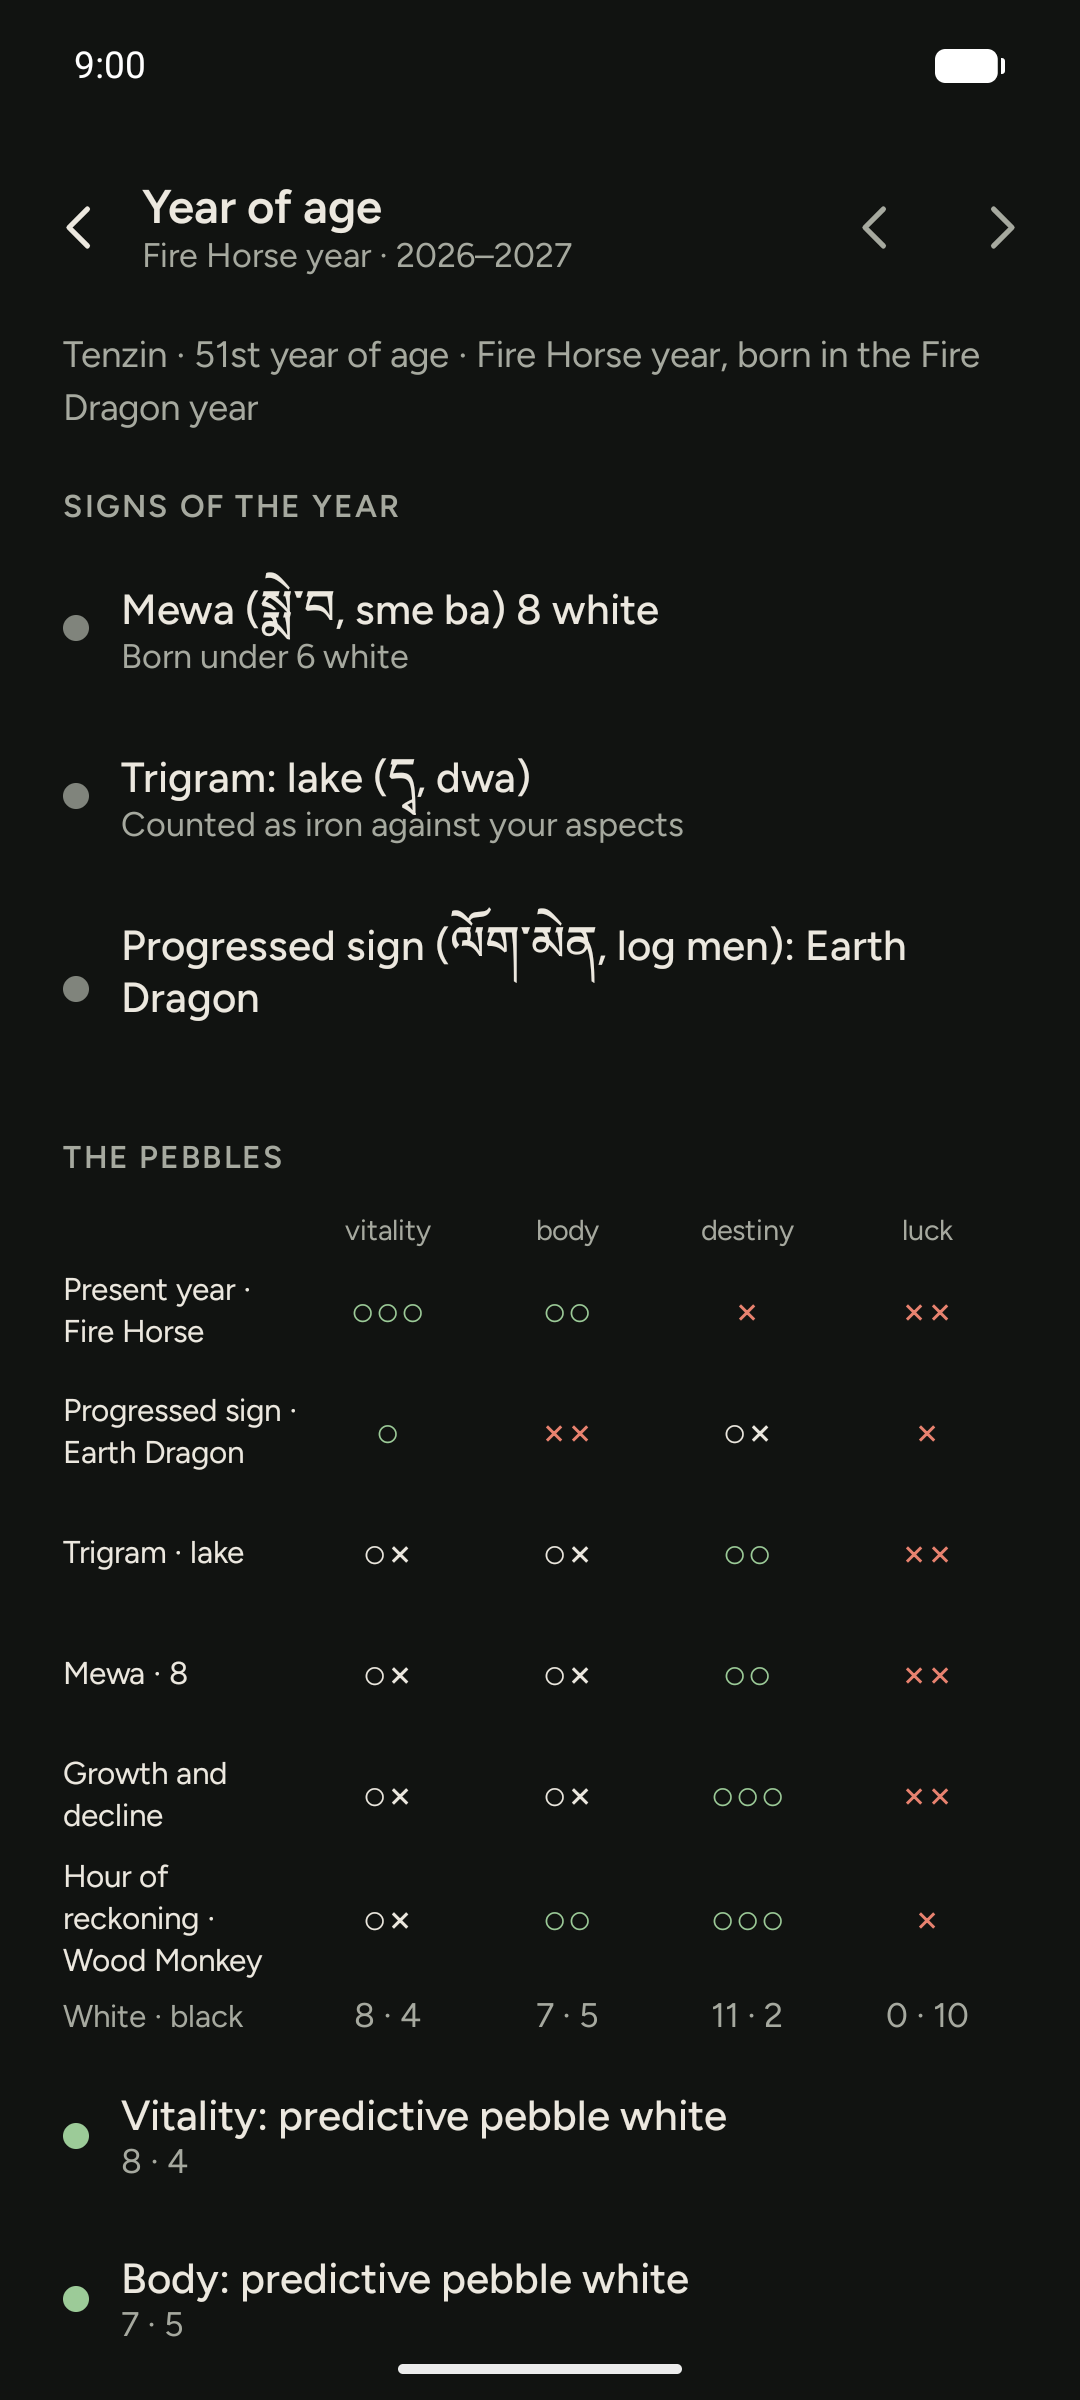
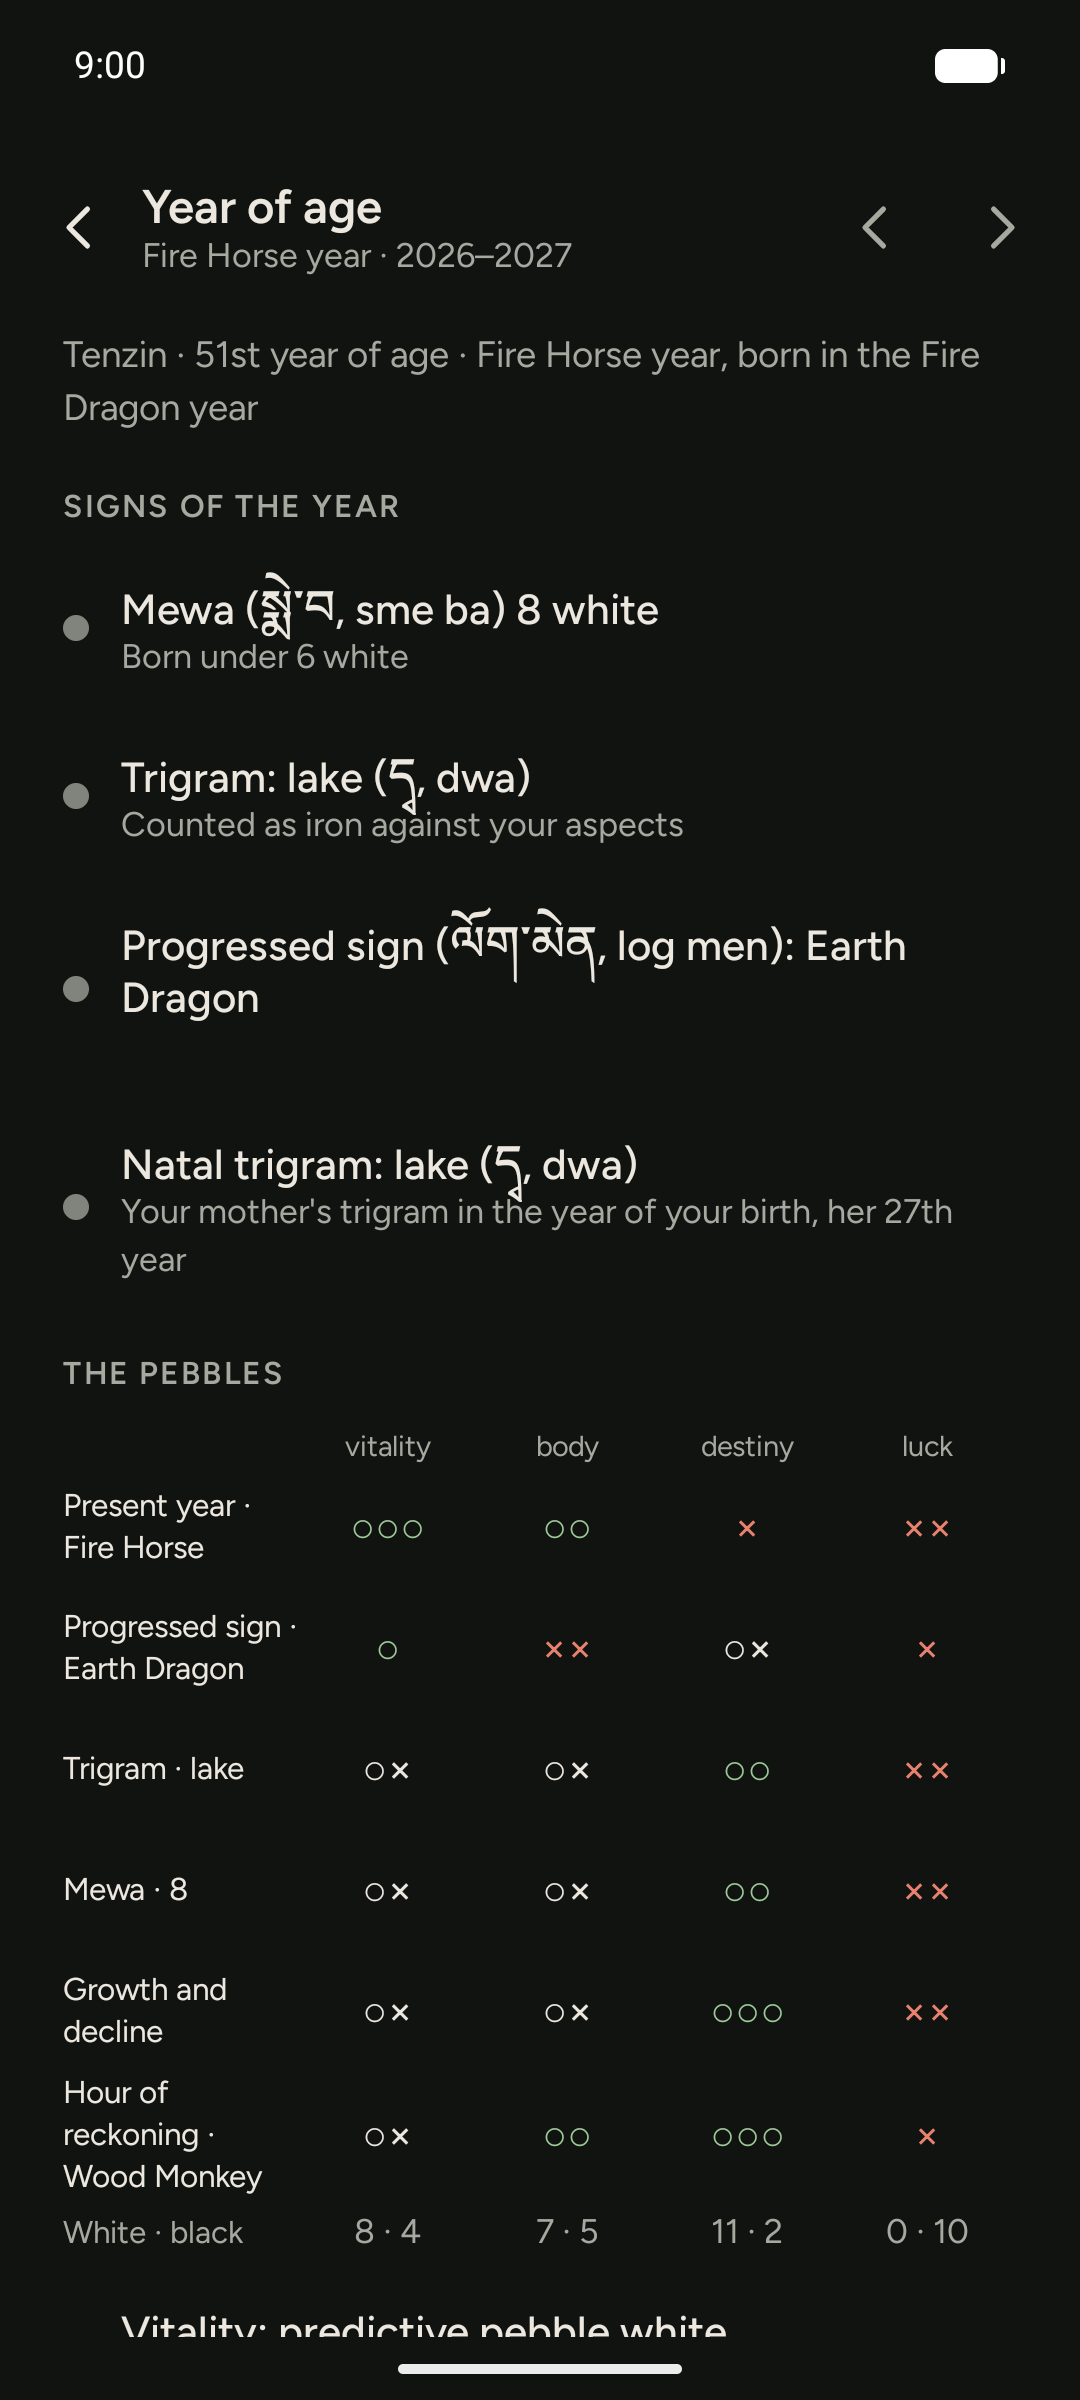
docs: the natal trigram and the obstacles with relatives (P2, block 29)
SPEC 5.9.1 gives the natal trigram's count and readings and each
obstacle with its page, and narrows "Not calculated" to what waits on
a question; 10.5 says the year of age reads the relatives. ROADMAP
marks P2 and block 29 built with what was checked. year-of-life.md
records what was built from RD13-RD14 and what was left out; open
question 158 asks how many members make a pile. README, both store
listings and shot 7 (retaken in both languages, with its alt text)
name the natal trigram and the obstacles a spouse, a parent or a son
brings.

diff --git a/docs/ROADMAP.md b/docs/ROADMAP.md
@@ -83,7 +83,7 @@ moves up as soon as it is unblocked.
 | <a id="block-26"></a>26 | [H1](#h1) The health screen + [H3](#h3) The menu's groups collapsible — built 2026-10-15 ([D14](#h1) decided the same day) | [RD1](#rd1), [RD7](#rd7), [RD8](#rd8), [RD9](#rd9), [RD10](#rd10) | [42](#block-42), the shape its readings are written in | Build block 26: H1, the Health screen from RD1 and RD7–RD10, with the element's mansions, and H3, the menu's groups collapsible, closed by default, each remembering its last state. |
 | <a id="block-27"></a>27 | [P1](#p1) Relatives — built 2026-10-15 | [RD13](#rd13), [RD14](#rd14), [RD15](#rd15), [RD16](#rd16) | — | Build block 27: P1, the relatives of each saved person. |
 | <a id="block-28"></a>28 | [R1](#r) The Reckonings section — built 2026-10-15 | [RD11](#rd11) | — | Build block 28: R1, open the Reckonings section from RD11's inventory, with the year of age moved into it. |
-| <a id="block-29"></a>29 | [P2](#p2) The natal trigram and the obstacles | [RD13](#rd13), [RD14](#rd14) | [27](#block-27), [28](#block-28) | Build block 29: P2, the natal trigram and the spouses' and the dead's obstacles. |
+| <a id="block-29"></a>29 | [P2](#p2) The natal trigram and the obstacles — built 2026-10-15 | [RD13](#rd13), [RD14](#rd14) | [27](#block-27), [28](#block-28) | Build block 29: P2, the natal trigram and the spouses' and the dead's obstacles. |
 | <a id="block-30"></a>30 | [P3](#p3) The bride's departure | [RD15](#rd15), [RD3](#rd3) | [25](#block-25), [27](#block-27) | Build block 30: P3, the bride's departure for a couple, from RD15. |
 | <a id="block-31"></a>31 | [R2](#r)… The reckonings one by one | [RD12](#rd12), [RD13](#rd13), [RD15](#rd15), [RD16](#rd16), [RD17](#rd17), each for its reckoning | [28](#block-28); [27](#block-27) for those that need relatives | Build block 31: the next reckoning of R1's list. |
 | <a id="block-32"></a>32 | [H2](#h2) The illness reckoning | [RD12](#rd12), [RD8](#rd8) | [26](#block-26), [28](#block-28) | Build block 32: H2, the illness reckoning on the Health screen, from RD12. |
@@ -2906,7 +2906,7 @@ groups it shows (`tools/emulator/store_shots.py`).
   and fixed in the build: the keyboard came back over the person's
   dialog when the relatives closed, covering Save.
 
-### <a id="p2"></a>P2. The natal trigram and the spouses' and the dead's obstacles — planned 2026-10-11
+### <a id="p2"></a>P2. The natal trigram and the spouses' and the dead's obstacles — planned 2026-10-11, built 2026-10-15 (SPEC §5.9.1)
 
 - **Gap.** Left by T4 (block 13) for want of other people's signs
   ([year-of-life.md](sources/year-of-life.md)): the natal trigram (*skyes
@@ -2923,6 +2923,33 @@ groups it shows (`tools/emulator/store_shots.py`).
   (P1) and [28](#block-28) (R1).
 - **Done when.** Vectors from Dorje's charts where they give them;
   `CatalogTest`; SPEC §5.9.1; both languages.
+- **Built 2026-10-15** (block 29, SPEC §5.9.1): `Kin.kt` in the core
+  (`Kin`, `KinReckoning`, `KinObstacle`) and `Reckonings.kin` from the
+  person's tree. The natal trigram, a row among the year's signs reading
+  WB's births on the eight trigrams (pp. 286–288), or a note asking for the
+  mother's birth year; the obstacles with a relative, among the year's: the
+  progressed sign on the wife's, husband's, father's or son's birth year
+  and on a parent's death year (p. 388), the spouses' obstacle and the
+  bridge's end (p. 390, the notes p. 492), the secret obstacle's first
+  clause (p. 390), both spouses on the two-black (p. 409), each row naming
+  the relative. Two families in the shape with no allowance (`NatalTrigram`,
+  `KinObstacle`, item P2 in `CatalogTest`); the harsh years' note lost its
+  sentence about the app (X10 173). Dorje gives no worked natal trigram
+  (his mother's 34th year at li fits neither count, year-of-life.md), so
+  the vectors are the Moonbeams' count and WB's circuits worked by hand,
+  anchored on chart 6.2's man (`KinTest`, 5 tests; `ReckoningsTest`, the
+  tree read as kin). Left out, each on its open question: the tomb
+  obstacle (90), the secret obstacle's li and kham (91), the white year
+  (92), the household's pebbles, piled trigrams and gathered mewa (96,
+  158); the dead's obstacle, which WB rejects; the births by the natal
+  trigram against the life force and the parents' trigrams at the birth
+  (pp. 294, 326) go with the birth reckoning (R2…). Checked on the emulator
+  in English and Russian (a man of 1976 with a mother of 1950, a wife of
+  1988, a father dead in 1988 and a brother in the house: the lake trigram
+  natal, four obstacles, their sheets; no relatives: the note); the
+  sheets' gloss line no longer reads " · unlucky" for an entry without a
+  gloss of its own; store shot 7 retaken in both languages with a mother
+  entered; the release build checked.
 
 ### <a id="p3"></a>P3. The bride's departure — planned 2026-10-11
 

diff --git a/docs/SPEC.md b/docs/SPEC.md
@@ -419,17 +419,50 @@ mixed, as WB reads them good, and the progressed sign on a tomb mixed,
 "slightly bad"), the progressed sign's gains lucky and its
 doors and fives unlucky; mewa and trigram no tone.
 
+**With the relatives** (§10.5; ROADMAP P2, `Kin.kt`, `KinReckoning`;
+`Reckonings.kin` takes the mother, father, spouses and children entered
+under the person, and anyone of the household further out). The **natal
+trigram** (*skyes spar*) is the mother's trigram of her year of age in the
+year of the birth, a woman's circuit from kham towards khen, one a year:
+"take the child's year from the mother's, add one, and turn the mother's
+trigram that many times" (the Moonbeams, f. 9a; WB ch. 22, p. 261, "the
+trigram one is born on is the mother's luck", the notes, vol. 2, p. 476).
+It is a row among the signs, without tone, reading WB's births on the
+eight trigrams (ch. 22, pp. 286–288: the forefathers' fault, the nature of
+the one born on it, the gods and the spirits that harm); with no mother's
+birth year, a note says where to enter it. The **obstacles** join the
+year's, each unlucky, its row naming the relative (WB ch. 24): the
+progressed sign on another's birth year, from either side (p. 388): the
+husband's on the wife's, the wife's on the husband's, the son's on the
+father's, the father's on the son's (a son is a male child), and the
+person's on the year a parent died; husband and wife on one trigram of
+the year (*bza' shug*, p. 390), and two others of the household on one,
+the lesser fault of the bridge's end (*zam thug*, the notes, p. 492); the
+secret obstacle (*gsang keg*), the trigram of the year on the natal
+trigram (p. 390), its rites by whether the mother lives; and both spouses'
+mewa of the year on the two-black (p. 409). A relative's own trigram,
+progressed sign and mewa of the year need their birth year (their gender
+for the first two) and that they live; a spouse or father who has died
+brings none of them. Tested in `KinTest` and `ReckoningsTest`.
+
 **Not calculated**, for want of data the app does not ask for or of a
-clear rule ([sources/year-of-life.md](sources/year-of-life.md)): the natal
-trigram, which is the mother's trigram in the year of the birth, and the
-secret obstacle that needs it; the obstacles of spouses, parents and the
-dead; the four counted signs of the progressed sign (lifeline, peg, sky
-and earth extension); the clan's nine-multiple (no clan is asked); the
+clear rule ([sources/year-of-life.md](sources/year-of-life.md)): the
+secret obstacle's second clause, the son's on li and the daughter's on
+kham (open question 91, whose trigram «མ་སྤར» is); the forefathers' tomb
+obstacle (*dur keg*, question 90, whose signs at death); the progressed
+sign on the "white year" (question 92); the dead's obstacle of seven
+generations, which WB rejects; the household's pebble round, the
+household's trigrams piled and its mewa gathered by colour (questions 96
+and 158: who counts, and how many make a pile); the births by the natal trigram
+against the life force and the parents' trigrams at the birth (ch. 22,
+pp. 294, 326), which belong to the birth reckoning (ROADMAP R); the
+four counted signs of the progressed sign (lifeline, peg, sky and earth
+extension); the clan's nine-multiple (no clan is asked); the
 readings of the mewa's nine-multiple by kind of person, which WB gives as
 what "some hold"; the tomb days of the month (the 6th, 18th and 30th),
-which are days, not years, and have no reading; the household readings;
-and the Chinese pebble divination that ends the chapter (pp. 416–452),
-a casting, not a reckoning.
+which are days, not years, and have no reading; and the Chinese pebble
+divination that ends the chapter (pp. 416–452), a casting, not a
+reckoning.
 
 Supported range: 1900–2100 Gregorian, for both engines. In 1.0 the date picker
 does not offer dates outside it (§10.2).
@@ -2456,8 +2489,8 @@ canvas "Zanshin Calendar — basic design".
   entered under them, as the dialog says. At most 60 relatives a person.
   No clan: only some families have one (the owner, 2026-10-15), so the
   reckonings that ask for it (ch. 22, 23, 29) go without. What the
-  readings ask of each relative is in ROADMAP P1 (RD13–RD16); no reading
-  uses them yet. Stored as the `relatives` preference, one relative per
+  readings ask of each relative is in ROADMAP P1 (RD13–RD16); the year
+  of age reads them since P2 (§5.9.1). Stored as the `relatives` preference, one relative per
   line, by tabs: the person's index, the relative's id, the id they are
   entered under (`-` for the person), the relation (`MOTHER`, `FATHER`,
   `SPOUSE`, `CHILD`, `SIBLING`, `HOUSEHOLD`), the name, the gender (`m`,

diff --git a/docs/sources/year-of-life.md b/docs/sources/year-of-life.md
@@ -75,8 +75,8 @@ counts as one element: the *Moonbeams*, p. 493, «མཁའ་རི་རླུ
 *Moonbeams* f. 12a) makes it the mother's trigram of the year of the
 birth, found from the mother's age; WB's chapter 22 and the *Moonbeams*
 (f. 9a in Dharmaśrī's own print) say the same, read on the scans in
-*The birth reckoning and the natal trigram (RD13)* below; it is not
-built.
+*The birth reckoning and the natal trigram (RD13)* below; built with
+block 29 (ROADMAP P2, SPEC §5.9.1).
 
 **The sectors of growth and decline** (p. 258, img. 268, l. 7–21; Yigdzin-1, read on the scan line by line, O10d), with the mother, son, friend and enemy of each element:
 
@@ -1163,12 +1163,26 @@ Read on the scan, O10d (2026-10-13); RD14 had them from Yigdzin-1 and the etext:
 | The births on the trigrams, ff. 180b–182a (pp. 286–288) | the mother's birth year | the natal trigram | the forefathers' fault and generations, the child's character, home and tomb, god and harm |
 | The *dza zor* of birth luck (pp. 412–413) | both parents' birth years and clans | the parents in the current year's triad five back | a child born then; read on the scan (O10d) |
 
+### Built (block 29, 2026-10-15)
+
+From this section and RD13 (ROADMAP P2, SPEC §5.9.1): the natal trigram
+with the births on the eight trigrams as its readings; the progressed sign
+on another's year (p. 388; the "white year" and its seventh left out,
+question 92); the spouses' obstacle and the bridge's end (p. 390, the
+notes p. 492); the secret obstacle's first clause, the trigram of the year
+on the natal trigram (its li and kham clause left out, question 91); both
+spouses on the two-black (p. 409). Left out: the forefathers' tomb
+obstacle (question 90), the dead's obstacle (WB rejects it), the
+household's pebble round, piled trigrams and gathered mewa (questions 96
+and 158), the members' natal trigrams of p. 399 ("another view"), and the
+parents' nine-multiples (no clan is asked).
+
 ### Open
 
-Open questions 90–96 ([open-questions.md](open-questions.md)), in order: the
+Open questions 90–96 and 158 ([open-questions.md](open-questions.md)), in order: the
 forefathers' tomb obstacle; the secret obstacle's «མ་སྤར»; the white year;
 «རྐྱ་མདའ», «ར་འབད», «རུ་ཤན་ཁ་སྤྲོད»; «ལྔ་སེར་བརྗེ་དྲུག་དཀར་བོན»; the notes' «མ» on p. 493;
-who counts as the household.
+who counts as the household; how many members make a pile.
 
 - Doubt: «གྱོས་པོ» (p. 286, img. 296) rests on Yigdzin-1; the scan's letter is not clear.
 - The *dza zor* of birth luck (pp. 412–413) and the notes' pp. 493–494 lines quoted above were read on the scan by O10d (2026-10-13).
@@ -1185,8 +1199,10 @@ who counts as the household.
 ## Open
 
 - The natal trigram needs the mother's birth year, and the father's
-  trigram at the birth (WB p. 326) the father's: whether the app should
-  ask for them is the owner's call (RD13 above).
+  trigram at the birth (WB p. 326) the father's: the app asks for both
+  among a person's relatives since P1 (2026-10-15), and the natal trigram
+  is built (P2); the father's trigram at the birth waits on the birth
+  reckoning (ROADMAP R).
 - The four counted signs of the progressed sign: which of the counted
   sign's aspects WB means.
 - The Chinese pebble divination (pp. 416–452) is read only far enough to

diff --git a/docs/sources/open-questions.md b/docs/sources/open-questions.md
@@ -1225,3 +1225,11 @@ the text, not about the app.
      reading of its own? (2026-10-14, O10,
      [white-beryl-ch34.md](white-beryl-ch34.md), "Open (O10f)")
 
+
+158. **How many members make a pile.** WB vol. 1, p. 396: «ཁྱིམ་གཅིག་བཟའ་གྲངས་མང་ཡོད་དེ། །ལིར་སྤུངས་…»,
+     the household's trigrams of the year "piled" on one trigram, and
+     p. 407, «ཁྱིམ་ནང་གཅིག་དཀར་མང་ཚོགས་ན», many members on one mewa. Is a
+     pile two members, as the spouses' obstacle on one trigram (p. 390)
+     is, or more than two, and is it counted over the house's members
+     only (question 96)? (2026-10-15, block 29,
+     [year-of-life.md](year-of-life.md), *The household's trigrams piled up*)

diff --git a/README.md b/README.md
@@ -33,7 +33,9 @@ readings of that day and sunrise, solar noon and sunset for your place.
 - **Reckonings:** the White Beryl's element reckoning for each person,
   its pebbles counted, not cast: the year of age, year by year, with its
   mewa, trigram and progressed sign, the pebbles with their predictions,
-  growth and decline, and the year's obstacles.
+  growth and decline, and the year's obstacles; with the relatives
+  entered for a person, the natal trigram and the obstacles a spouse, a
+  parent or a son brings.
 - **Health:** what falling ill today means by the date, the weekday,
   the link and the goddess of the day, the four perilous days; where the
   la sits by the date and moves through the day; the day's mansion as a
